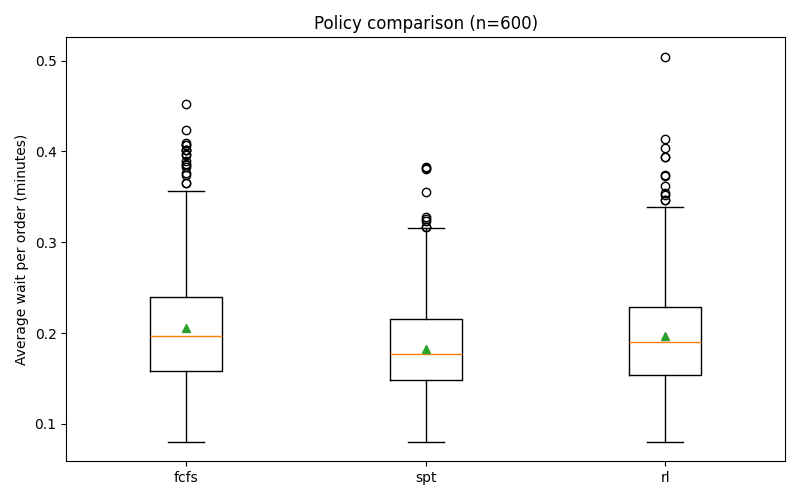
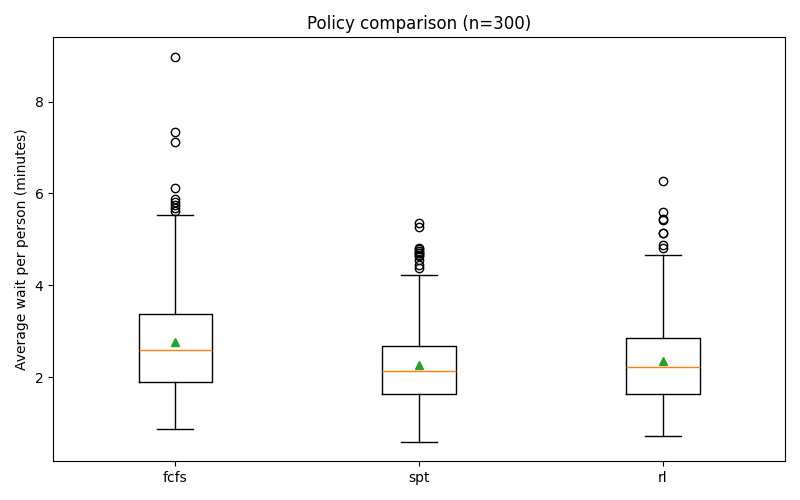
update reward

diff --git a/env.py b/env.py
@@ -6,10 +6,11 @@ import numpy as np
 class Order:
     ITEM_NAMES = ['hamburger', 'drink', 'ice_cream']
 
-    def __init__(self, id, items, arrival_time):
+    def __init__(self, id, items, arrival_time, num_people=1):
         self.id = id
         self.items = list(items)
         self.arrival_time = arrival_time
+        self.num_people = num_people
 
     def num_items(self):
         return len(self.items)
@@ -40,30 +41,46 @@ class McDonaldsEnv:
         self.served_orders = 0
         self.served_items = 0
         self.total_wait = 0.0
+        self.served_people = 0
+        self.total_wait_people = 0.0
 
         self.env.process(self._arrival_process())
         return self._get_state()
 
     def _arrival_process(self):
         while True:
-            inter = self.rng.expovariate(self.arrival_rate)
+            minute_in_cycle = self.env.now % 120
+            if minute_in_cycle < 60:
+                current_arrival_rate = self.arrival_rate * 1.5
+            else:
+                current_arrival_rate = self.arrival_rate
+            inter = self.rng.expovariate(current_arrival_rate)
             yield self.env.timeout(inter)
             self.current_time = self.env.now
             items = self._sample_order()
-
+            n_items = len(items)
+            if n_items == 1:
+                num_people = self.rng.choices([1,2], weights=[0.9,0.1])[0]
+            elif n_items == 2:
+                num_people = self.rng.choices([1,2,3], weights=[0.7,0.25,0.05])[0]
+            elif n_items <= 4:
+                num_people = self.rng.choices([2,3,4], weights=[0.4,0.4,0.2])[0]
+            elif n_items <= 6:
+                num_people = self.rng.choices([2,3,4,5], weights=[0.2,0.4,0.3,0.1])[0]
+            else:
+                num_people = self.rng.choices([2,3,4,5,6], weights=[0.1,0.2,0.3,0.3,0.1])[0]
             if len(self.queue) >= self.max_active_orders:
                 if not hasattr(self, 'rejected_orders'):
                     self.rejected_orders = 0
                 self.rejected_orders += 1
                 continue
-
-            order = Order(self.next_id, items, self.env.now)
+            order = Order(self.next_id, items, self.env.now, num_people=num_people)
             self.next_id += 1
             self.queue.append(order)
 
     def _sample_order(self):
-
-        size = self.rng.choices([1, 2, 3], weights=[0.7, 0.25, 0.05])[0]
+        # Allow 1-8 items, most orders are small, some are large
+        size = self.rng.choices([1,2,3,4,5,6,7,8], weights=[0.3,0.25,0.15,0.1,0.08,0.06,0.04,0.02])[0]
         probs = [0.5, 0.3, 0.2]
         items = [self.rng.choices([0, 1, 2], weights=probs)[0] for _ in range(size)]
         return items
@@ -71,7 +88,7 @@ class McDonaldsEnv:
     def _service_time(self, typ):
 
         base = 1.0 if typ == 0 else 0.1
-        noise = self.rng.uniform(-0.05, 0.05) * base  # up to ±5% noise
+        noise = self.rng.uniform(-0.05, 0.05) * base
         return max(0.01, base + noise)
 
     def _get_state(self):
@@ -121,7 +138,10 @@ class McDonaldsEnv:
         self.served_orders += 1
         self.served_items += order.num_items()
         self.total_wait += wait_per_order
+        self.served_people += order.num_people
+        self.total_wait_people += wait_per_order * order.num_people
         done = self.env.now >= self.sim_time
+
 
         eligible = self._eligible_indices()
         spt_idx = None
@@ -141,8 +161,16 @@ class McDonaldsEnv:
             spt_wait = wait_per_order
 
         reward = 2.0 * (spt_wait - wait_per_order)
-
         reward -= 0.5 * wait_per_order
+
+        #Penalty for number of people waiting after serving
+        people_waiting = sum(o.num_people for o in self.queue)
+        people_penalty = 0.05 * people_waiting
+        reward -= people_penalty
+
+
+        people_bonus = 0.2 * (order.num_people - 1)
+        reward += people_bonus
 
         reward = np.clip(reward, -5, 5)
         return self._get_state(), reward, done, {}
@@ -192,5 +220,5 @@ class McDonaldsEnv:
             steps += 1
             if done:
                 break
-        avg_wait = (self.total_wait / self.served_items) if self.served_items > 0 else 0.0
+        avg_wait = (self.total_wait_people / self.served_people) if self.served_people > 0 else 0.0
         return total_reward, avg_wait

diff --git a/compare.py b/compare.py
@@ -54,7 +54,7 @@ def run_episode(env, policy, agent=None, seed=None, max_steps=2000):
 
         steps += 1
 
-    avg_wait = (env.total_wait / env.served_orders) if env.served_orders > 0 else 0.0
+    avg_wait = (env.total_wait_people / env.served_people) if env.served_people > 0 else 0.0
     rejected = getattr(env, 'rejected_orders', 0)
     return avg_wait, env.served_orders, rejected
 
@@ -77,6 +77,7 @@ def evaluate(policies=('fcfs', 'spt', 'rl'), episodes=200, seed=0):
     for p in policies:
         for ep in range(episodes):
             avg_wait, nserved, nrej = run_episode(env, p, agent=agent if p == 'rl' else None, seed=seed+ep)
+
             results[p].append(avg_wait)
             served[p].append(nserved)
             rejected[p].append(nrej)
@@ -86,12 +87,14 @@ def evaluate(policies=('fcfs', 'spt', 'rl'), episodes=200, seed=0):
     data = [results[p] for p in labels]
     plt.figure(figsize=(8, 5))
     plt.boxplot(data, labels=labels, showmeans=True)
-    plt.ylabel('Average wait per order (minutes)')
+    plt.ylabel('Average wait per person (minutes)')
     plt.title(f'Policy comparison (n={episodes})')
     plt.tight_layout()
     out1 = os.path.join(RESULTS_DIR, 'policy_boxplot.png')
     plt.savefig(out1)
     print('Saved', out1)
+
+
 
 
     for p in labels:
@@ -101,4 +104,4 @@ def evaluate(policies=('fcfs', 'spt', 'rl'), episodes=200, seed=0):
 
 
 if __name__ == '__main__':
-    evaluate(policies=('fcfs', 'spt', 'rl'), episodes=600)
+    evaluate(policies=('fcfs', 'spt', 'rl'), episodes=300)

diff --git a/train.py b/train.py
@@ -30,8 +30,8 @@ def train(episodes=500, seed=0):
 
         agent.update_epsilon()
 
-        avg_wait = (env.total_wait / env.served_orders) if env.served_orders > 0 else 0.0
-        print(f"Episode {ep:03d}: served_orders={env.served_orders}, avg_wait={avg_wait:.3f} min, steps={steps}")
+        avg_wait = (env.total_wait_people / env.served_people) if env.served_people > 0 else 0.0
+        print(f"Episode {ep:03d}: served_orders={env.served_orders}, avg_wait_per_person={avg_wait:.3f} min, steps={steps}")
 
     try:
         agent.save('models/fastdqn_final.npz')
@@ -40,4 +40,4 @@ def train(episodes=500, seed=0):
         print('Failed to save final model:', e)
 
 if __name__ == '__main__':
-    train(episodes=1000)
+    train(episodes=300)

diff --git a/README.md b/README.md
@@ -4,15 +4,12 @@
 
 ## Pregled
 
-Ovaj projekt simulira red narudžbi u restoranu brze hrane i uspoređuje različite strategije raspoređivanja za posluživanje
-narudžbi. Glavni cilj je koristiti (Reinforcement Learning, RL) kako bi se naučila učinkovita strategija posluživanja
-narudžbi i usporedila s dvjema klasičnim heuristikama:
+Ovaj projekt simulira red narudžbi u restoranu brze hrane i uspoređuje različite strategije raspoređivanja za posluživanje narudžbi. Glavni cilj je koristiti (Reinforcement Learning, RL) kako bi se naučila učinkovita strategija posluživanja narudžbi i usporedila s dvjema klasičnim heuristikama:
 
 - **FCFS (First-Come, First-Served)**
 - **SPT (Shortest Processing Time)**
 
-RL agent se trenira kako bi minimizirao prosječno vrijeme čekanja po narudžbi, a njegovi rezultati se vizualiziraju i
-uspoređuju s heuristikama.
+RL agent se trenira kako bi minimizirao prosječno vrijeme čekanja po osobi, a njegovi rezultati se vizualiziraju i uspoređuju s heuristikama.
 
 ## Glavne Komponente
 
@@ -24,36 +21,34 @@ uspoređuju s heuristikama.
 
 ## Kako Funkcionira
 
-1. **Simulacija**: Narudžbe dolaze nasumično, svaka s 1–3 artikla (hamburger, piće, sladoled). Svaki artikl ima
-   stohastičko vrijeme posluživanja.
+1. **Simulacija**: Narudžbe dolaze nasumično, svaka s 1–8 artikala (hamburger, piće, sladoled). Veće narudžbe imaju više osoba. Svaki artikl ima stohastičko vrijeme posluživanja.
+Svaka 2 sata simulacije, sljedećih sat vremena je "rush hour" s 50% više narudžbi.
 2. **Stragegije/Heuristike**:
     - **FCFS**: Uvijek poslužuje najstariju dostupnu narudžbu.
     - **SPT**: Poslužuje narudžbu s najkraćim očekivanim ukupnim vremenom posluživanja.
     - **RL**: Koristi istreniranog DQN agenta za odabir koje će se narudžbe poslužiti sljedeće.
-3. **Trening**: RL agent se trenira kroz mnogo epizoda kako bi minimizirao vrijeme čekanja, koristeći nagradu oblikovanu
-   tako da potiče ponašanje slično SPT-u.
-4. **Evaluacija**: Nakon treninga, sve tri strategije se pokreću kroz mnogo epizoda. Prosječna vremena čekanja i broj
-   posluženih narudžbi se bilježe i vizualiziraju.
+3. **Trening**: RL agent se trenira kroz mnogo epizoda kako bi minimizirao vrijeme čekanja, koristeći nagradu oblikovanu tako da potiče ponašanje slično SPT-u.
+4. **Evaluacija**: Nakon treninga, sve tri strategije se pokreću kroz mnogo epizoda. Prosječna vremena čekanja i broj posluženih narudžbi i osoba se bilježe i vizualiziraju.
 
 ## Izlaz
 
-- **Boxplot usporedba**: Glavni izlaz je boxplot (`results/policy_boxplot.png`) koji prikazuje distribuciju prosječnog
-  vremena čekanja za svaku strategiju kroz mnogo epizoda. Primjer:
-    - Niže prosječno vrijeme čekanja ukazuje na bolje performanse.
+- **Boxplot usporedba**: Glavni izlaz je boxplot (`results/policy_boxplot.png`) koji prikazuje distribuciju prosječnog vremena čekanja po osobi za svaku strategiju kroz mnogo epizoda. Primjer:
+    - Niže prosječno vrijeme čekanja po osobi ukazuje na bolje performanse.
     - Iznimke i raspon pokazuju konzistentnost i robusnost.
 - **Logovi**: Nakon pokretanja `compare.py`, ispisuju se statistike poput:
   ```
-    fcfs: mean_wait=0.205, std_wait=0.067, served_orders_mean=161.2
-    spt: mean_wait=0.181, std_wait=0.051, served_orders_mean=161.3
-    rl: mean_wait=0.196, std_wait=0.062, served_orders_mean=160.8
+    fcfs: mean_wait=2.772, std_wait=1.193, served_orders_mean=199.5
+    spt: mean_wait=2.254, std_wait=0.887, served_orders_mean=200.2
+    rl: mean_wait=2.624, std_wait=1.209, served_orders_mean=199.2
   ```
 
 ![Boxplot usporedbe](results/policy_boxplot.png)
 
 ## Interpretacija
 
-**SPT**  ima najniže srednje i prosječno vrijeme čekanja, što pokazuje da je najučinkovitiji u minimiziranju čekanja.  
+**SPT** ima najniže srednje i prosječno vrijeme čekanja po osobi, što pokazuje da je najučinkovitiji u minimiziranju čekanja.  
 **FCFS** i RL imaju slične performanse, pri čemu je RL malo bolji od FCFS-a, ali još uvijek slabiji od SPT-a.
 
-SPT je najbolja strategija za minimiziranje prosječnog vremena čekanja.
-RL agent postiže rezultate slične FCFS-u, ali još ne nadmašuje SPT.
+SPT je najbolja strategija za minimiziranje prosječnog vremena čekanja po osobi. RL agent postiže rezultate slične FCFS-u, ali još ne nadmašuje SPT.
+
+**Napomena:** Sve statistike i grafovi odnose se na prosječno vrijeme čekanja po osobi, a ne po narudžbi. Svaka narudžba može predstavljati više osoba, pa je ovaj pristup realističniji za procjenu korisničkog iskustva.
